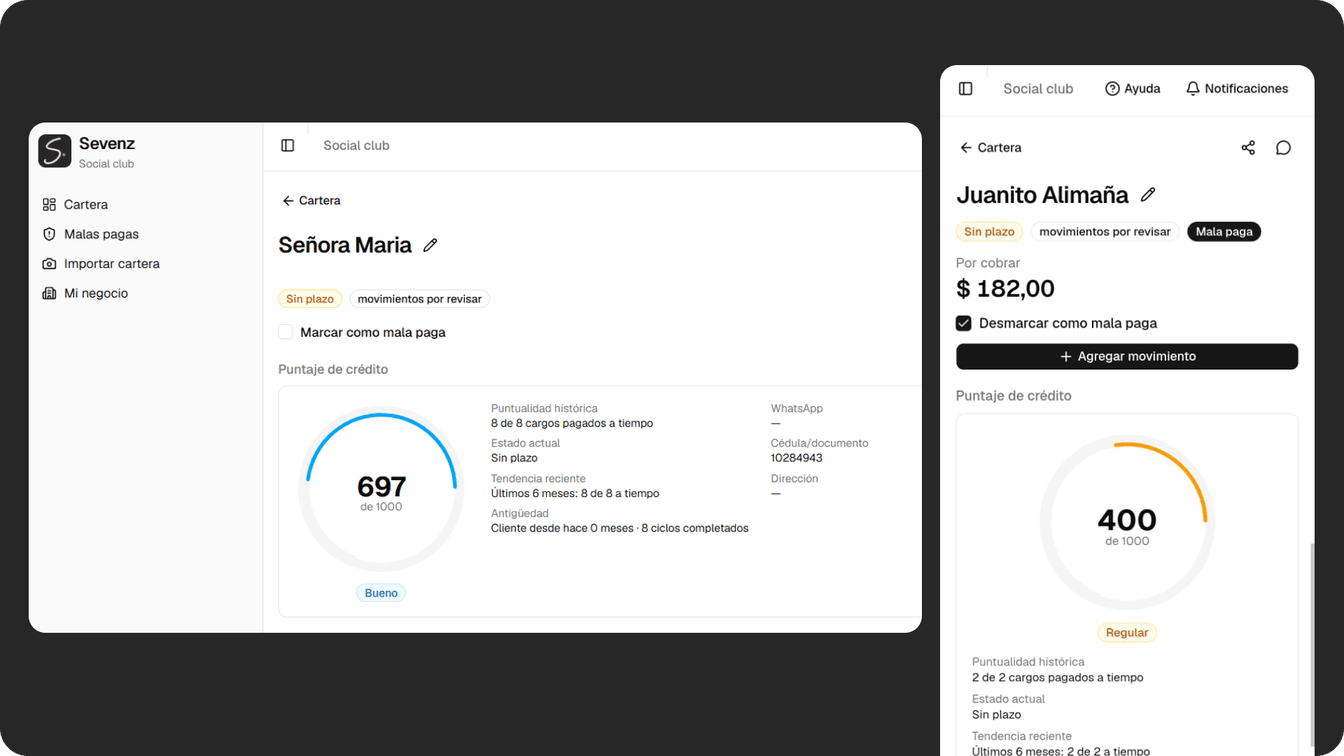
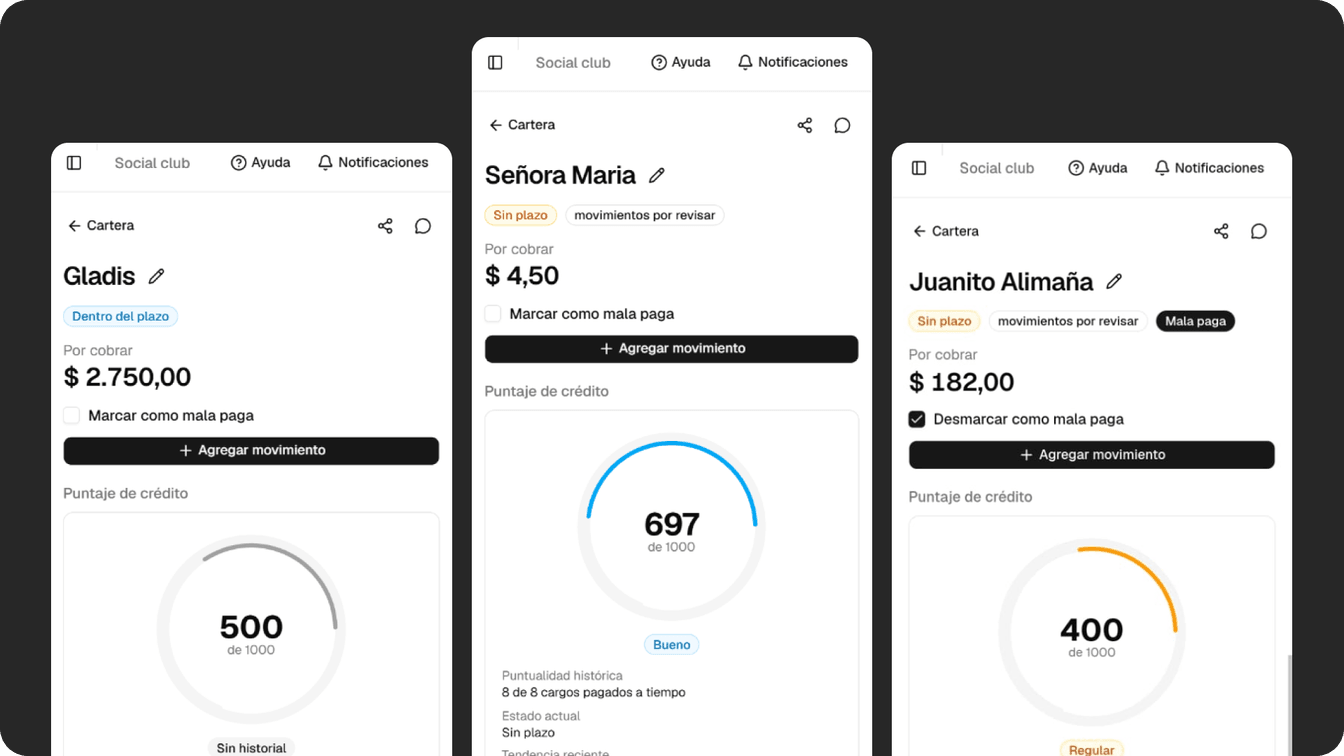
Add label above Value section image, compress updated screenshot
The screenshot was swapped for a newer 3-panel version; compresses
it the same way as the other product shots (resized to ~2x display
width, palette PNG) — 269.5 KB to 65.9 KB (-76%).

diff --git a/components/landing/value.tsx b/components/landing/value.tsx
@@ -36,7 +36,11 @@ export function Value() {
         </div>
       </div>
 
-      <div className="mt-10 w-full max-w-2xl">
+      <p className="mt-10 font-mono text-xs tracking-[0.14em] text-muted-foreground uppercase">
+        Visualiza la reputación de tus clientes a partir de sus pagos
+      </p>
+
+      <div className="mt-6 w-full max-w-2xl">
         <ProductShot
           src="/screens/puntaje-de-credito-de-clientes-por-fiado-en-sevenz.png"
           alt="Puntaje de crédito de clientes por fiado en Sevenz"
